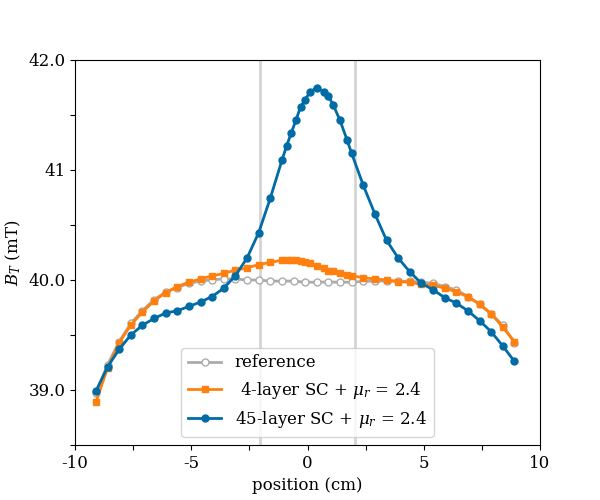
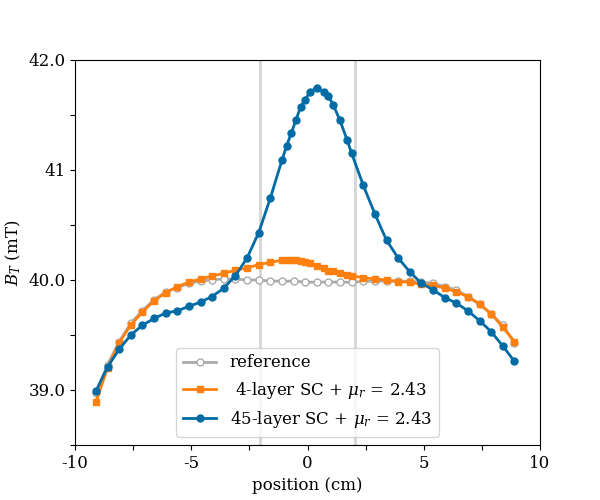
Update label measured mu_r

Changed region(s): [[0.3, 0.69, 0.63, 0.87], [0.66, 0.69, 0.75, 0.87]]

diff --git a/pycloak/cloaking_pub17/cloak_sbu_1d.py b/pycloak/cloaking_pub17/cloak_sbu_1d.py
@@ -122,5 +122,5 @@ if __name__ == '__main__':
                    "data-calib/DATA_Gaussmeter/DataFile_170213_201438.csv",
                    "data-calib/DATA_Gaussmeter/DataFile_170214_210939.csv"],
                   ["reference",
-                   " 4-layer SC + $\mu_r$ = 2.4",
-                   "45-layer SC + $\mu_r$ = 2.4"])
+                   " 4-layer SC + $\mu_r$ = 2.43",
+                   "45-layer SC + $\mu_r$ = 2.43"])
